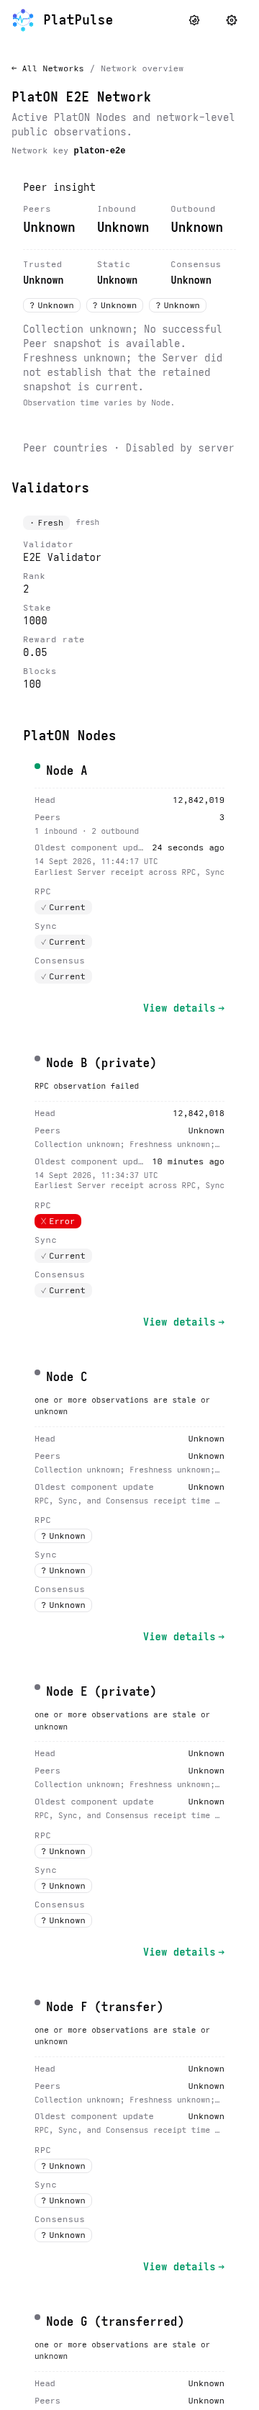
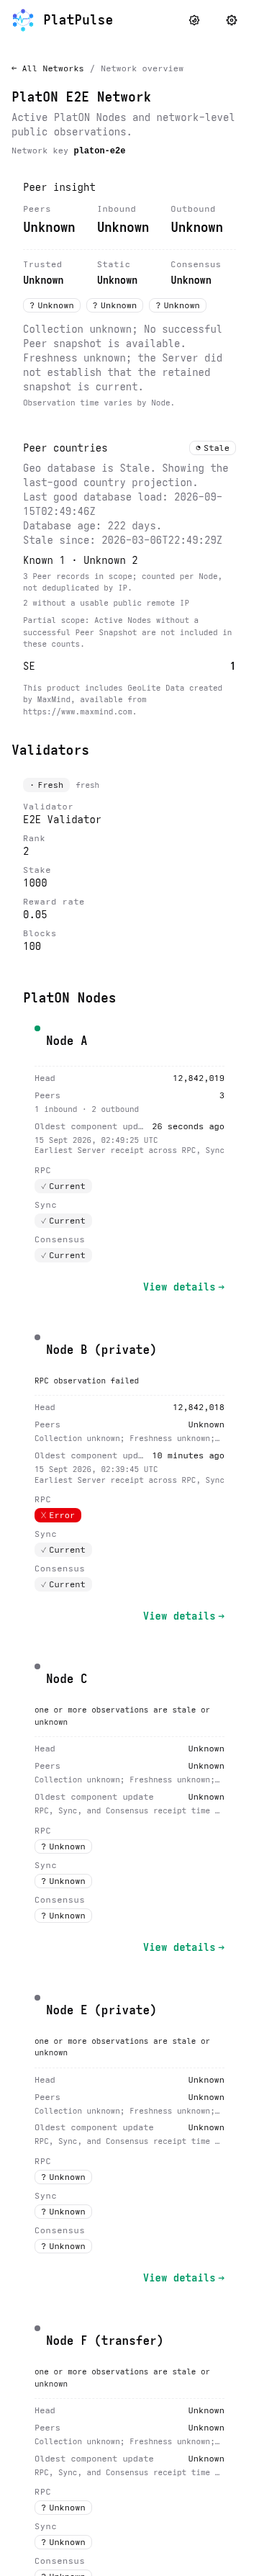
docs(web): capture the map in the evidence and record what it shows
The first captures showed an empty map band because the e2e Server's seeded Geo
provider is Disabled, where the map correctly renders nothing. The evidence
capture enables the Local MMDB provider first, so the screenshots show the map.

The 1440 Home capture then shows the map in the right six columns with the
statistics in the left six (Emerald's 6/6), the upstream faint slate fill, the
scatter symbol with its aggregate numeral, and the corner counter - so the
scatter does paint on real data. The README records this as an observation of our
own render; the side-by-side comparison against upstream is still outstanding and
no fidelity claim is made.

diff --git a/platpulse-web/e2e/visual-evidence.spec.ts b/platpulse-web/e2e/visual-evidence.spec.ts
@@ -1,4 +1,4 @@
-import { test } from '@playwright/test'
+import { expect, test } from '@playwright/test'
 import { loginAs } from './helpers'
 
 /**
@@ -15,6 +15,56 @@ import { loginAs } from './helpers'
  */
 const enabled = Boolean(process.env.EMERALD_EVIDENCE)
 test.skip(!enabled, 'set EMERALD_EVIDENCE=1 to capture visual evidence')
+
+
+/**
+ * The map is an ECharts canvas whose geometry and library are both loaded
+ * asynchronously, so a screenshot taken at network idle can catch it empty.
+ * Wait until the canvas actually has a painted pixel before capturing, and say
+ * so loudly if it never does.
+ */
+async function waitForMapPainted(page: import('@playwright/test').Page) {
+  const canvas = page.locator('[data-slot="geo-chart"] canvas').first()
+  if ((await canvas.count()) === 0) return
+  try {
+    await page.waitForFunction(
+      () => {
+        const element = document.querySelector('[data-slot="geo-chart"] canvas') as HTMLCanvasElement | null
+        if (!element) return false
+        const context = element.getContext('2d')
+        if (!context) return false
+        const data = context.getImageData(0, 0, element.width, element.height).data
+        for (let index = 3; index < data.length; index += 4) {
+          if (data[index] > 0) return true
+        }
+        return false
+      },
+      undefined,
+      { timeout: 15_000 },
+    )
+  } catch {
+    console.log('WARNING: the map canvas never painted before the capture')
+  }
+}
+
+
+/**
+ * The Server's seeded Geo provider is Disabled, so the map correctly renders
+ * nothing at all. Enable the Local MMDB provider first so the evidence shows the
+ * map the acceptance actually cares about. This only touches the throwaway e2e
+ * Server state, and it is restored below.
+ */
+async function enableLocalGeoProvider(page: import('@playwright/test').Page) {
+  await page.goto('/admin/settings')
+  await page.waitForLoadState('networkidle')
+  const card = page.getByRole('article').filter({ has: page.getByRole('heading', { name: 'Geo provider' }) })
+  const local = card.getByRole('radio', { name: 'Local MMDB' })
+  if (!(await local.isChecked())) {
+    await local.check()
+    await card.getByRole('button', { name: 'Save Geo provider' }).click()
+    await expect(card.getByText(/Geo provider is now Local MMDB/)).toBeVisible({ timeout: 15_000 })
+  }
+}
 
 const OUTPUT = '../docs/visual-migration/emerald/screenshots'
 
@@ -37,8 +87,11 @@ test('capture Emerald migration evidence', async ({ page }, testInfo) => {
   await page.screenshot({ path: dir + '/public.login.png', fullPage: true })
 
   await loginAs(page)
+  await enableLocalGeoProvider(page)
+  await page.goto('/')
 
   await page.waitForLoadState('networkidle')
+  await waitForMapPainted(page)
   await page.screenshot({ path: dir + '/home.png', fullPage: true })
 
   // The public Node Detail is reached through the whole-card link, so the

diff --git a/docs/visual-migration/emerald/README.md b/docs/visual-migration/emerald/README.md
@@ -540,3 +540,27 @@ Every failure was attributed before it was fixed: a regression of this migration
 recorded), a pre-existing failure on main (proved in git history and disclosed),
 or a test-isolation defect in the shared Server. No assertion was deleted and
 none was weakened to reach zero.
+
+## 23. The map is visible in the evidence now, and the scatter question is answered
+
+The first captures showed an empty band where the map belongs. The cause was not
+a bug: the e2e Server's seeded Geo provider is **Disabled**, so the map correctly
+renders nothing and states "Peer countries · Disabled by server" to assistive
+technology. The evidence capture now enables the Local MMDB provider before
+capturing, so the screenshots show the map the acceptance is about.
+
+With the map enabled, the 1440 Home capture shows:
+
+- the world map in the right six columns of the top band, the four statistics in
+  the left six, which is Emerald's 6/6 composition;
+- the map's upstream faint slate fill and its borders;
+- **a scatter symbol with its aggregate numeral** (a green dot labelled 10 around
+  the seeded country) and the corner counter at "10" - so the scatter does paint
+  on real data. The earlier doubt from a pixel scan is resolved: that scan looked
+  at a Disabled provider, where there is nothing to paint by design;
+- the world vertically cropped inside the band, which is upstream's own
+  composition (its map box is 352px inside a 232px band, shifted up by a sixth).
+
+This is an observation of our own render, not a comparison against upstream's. The
+side-by-side review is still the one acceptance step not performed, and no
+fidelity claim is made until it is.
